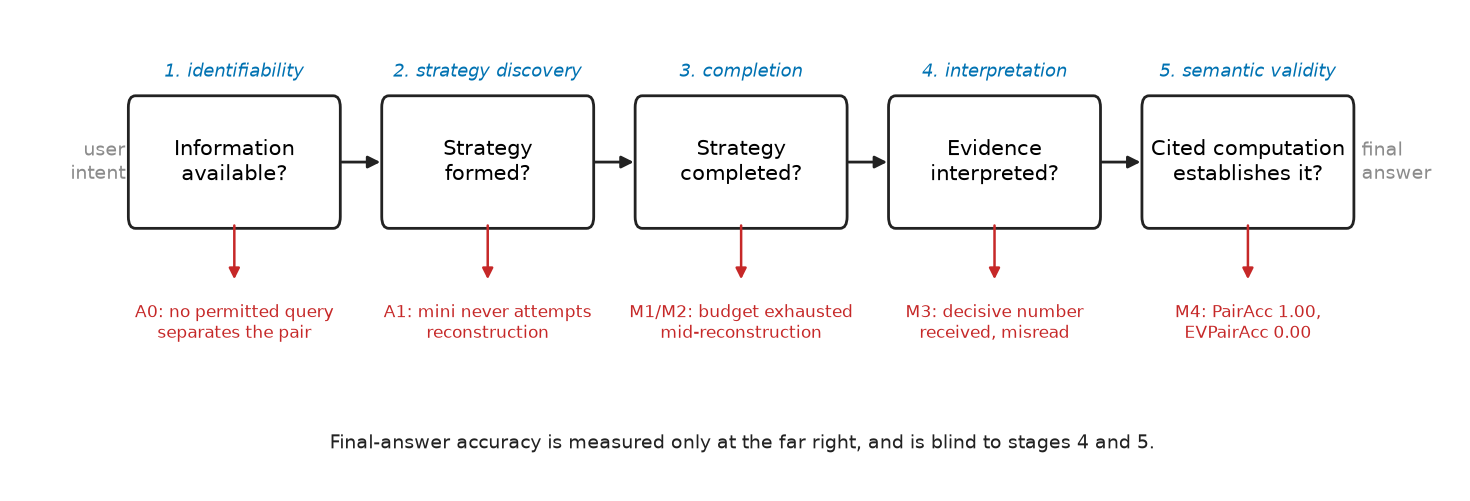
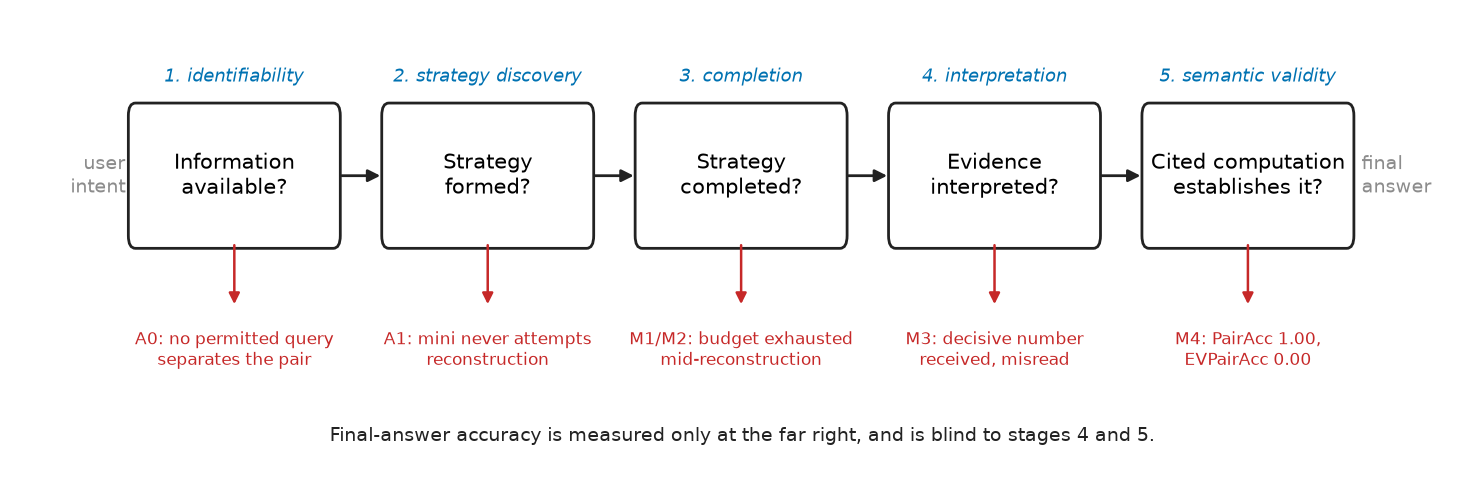
Framework figure: tighten the caption gap further

diff --git a/scripts/figure_framework.py b/scripts/figure_framework.py
@@ -58,11 +58,11 @@ for i, (title, stage, failure) in enumerate(STAGES):
 
 ax.text(-0.06, y + 0.31, "user\nintent", ha="right", va="center", fontsize=7, color=MUTE)
 ax.text(x - gap + 0.10, y + 0.31, "final\nanswer", ha="left", va="center", fontsize=7, color=MUTE)
-ax.text(x / 2 - 0.2, y - 0.95,
+ax.text(x / 2 - 0.2, y - 0.84,
         "Final-answer accuracy is measured only at the far right, and is blind to stages 4 and 5.",
         ha="center", fontsize=7, color=INK)
 ax.set_xlim(-0.95, x - gap + 0.85)
-ax.set_ylim(-0.14, 2.05)
+ax.set_ylim(-0.04, 2.05)
 ax.axis("off")
 fig.tight_layout(pad=0.2)
 for ext in ("pdf", "png"):
